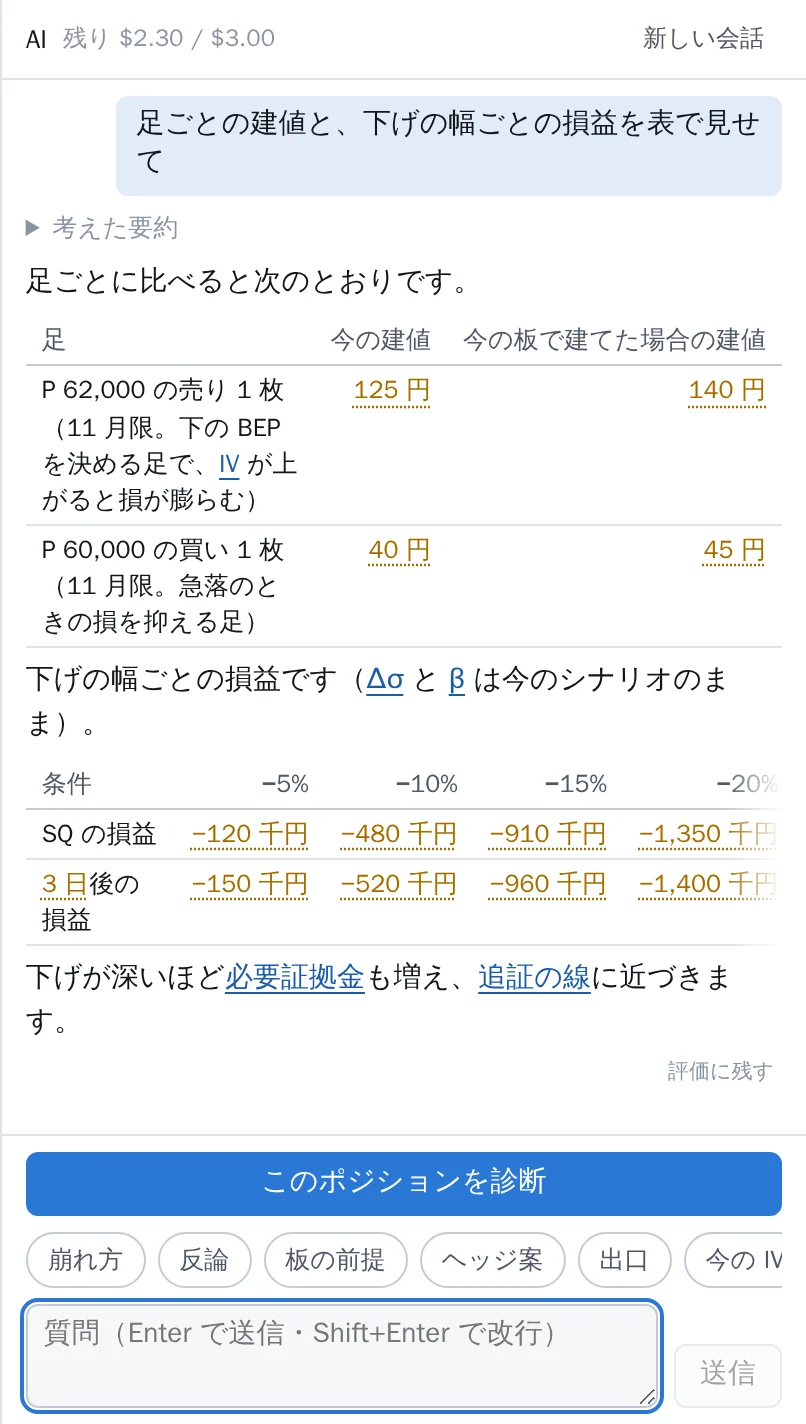
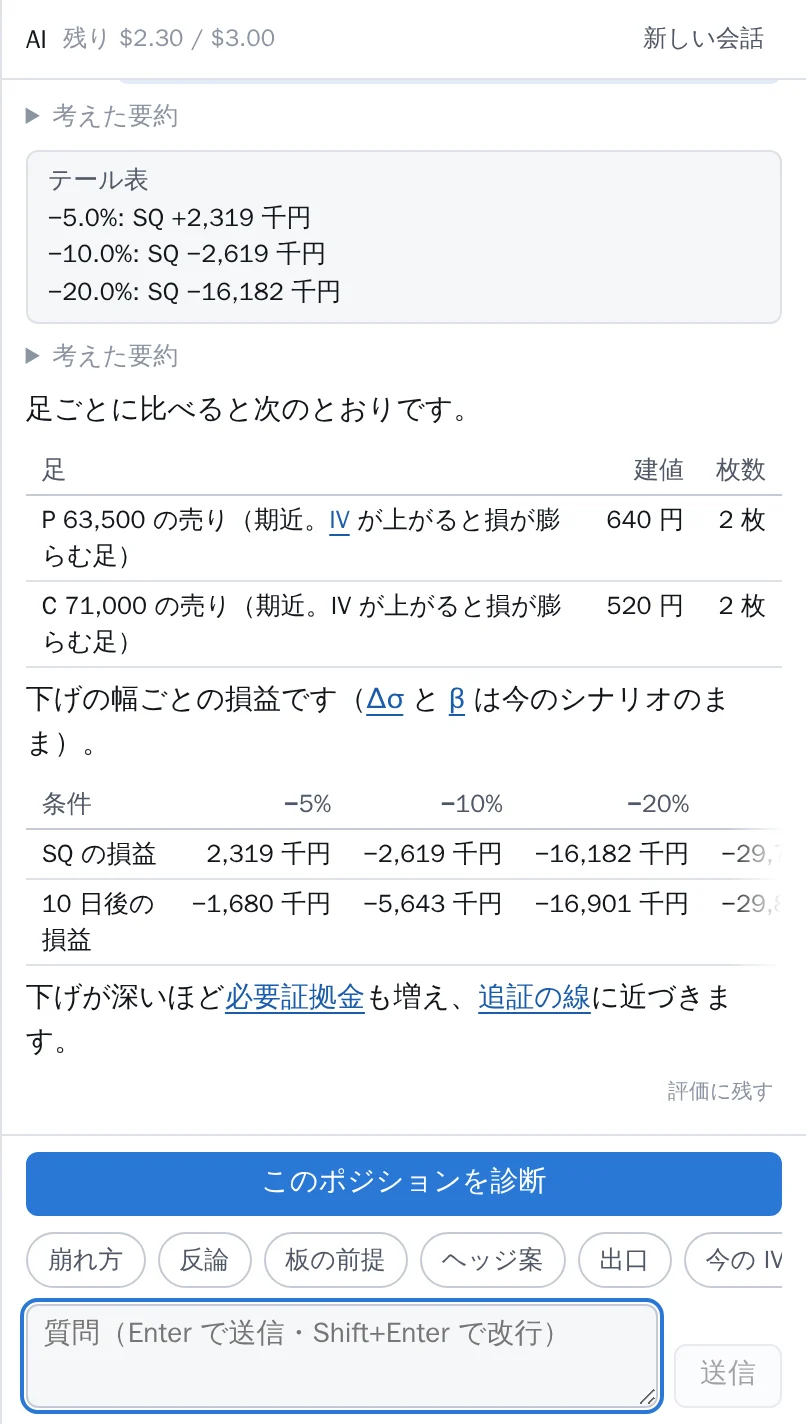
docs: 表の画像の数字を照合で一致させる（偽の返答は tail_table の結果と文脈の足の値で表を書く）
撮影用の偽の返答の「表で」は架空の数字を書いていたため、ai-table.webp の数字が全部点線（照合できない数字）で写っていた。
tail_table を呼び、その結果（テール表の行）と文脈の足（行使価格・建値・枚数）から表を書くようにして撮り直した。
ui:check --ai の #234 返答の表は 4 幅 × ダーク / ライトで pass。ほかの AI の画像には点線が無い。

diff --git a/README.md b/README.md
@@ -137,7 +137,7 @@ IV 推移は ATM IV（30 日固定）、先物推移は日経225 先物（ラー
 
 <table>
   <tr>
-    <td width="50%"><img src="docs/images/ai-table.webp" alt="ライト。AI の返答の表 2 つ（足ごとの建値、下げの幅ごとの損益）。文の中の IV・Δσ・β・必要証拠金・追証の線に下線のリンク、照合できない数字に点線"></td>
+    <td width="50%"><img src="docs/images/ai-table.webp" alt="ライト。AI がテール表を計算させた後の返答の表 2 つ（足ごとの建値と枚数、下げの幅ごとの損益）。IV・Δσ・β・必要証拠金・追証の線に下線のリンク"></td>
     <td width="50%"><b>表と用語のリンク</b> — AI が表で書いた比較は表で出る（列が多ければ表の中だけを横に動かす）。返答の中の用語（IV・Δσ・β・追証の線 など）は押すと用語の説明カードが開く。計算の値と照合できない数字には点線</td>
   </tr>
 </table>
